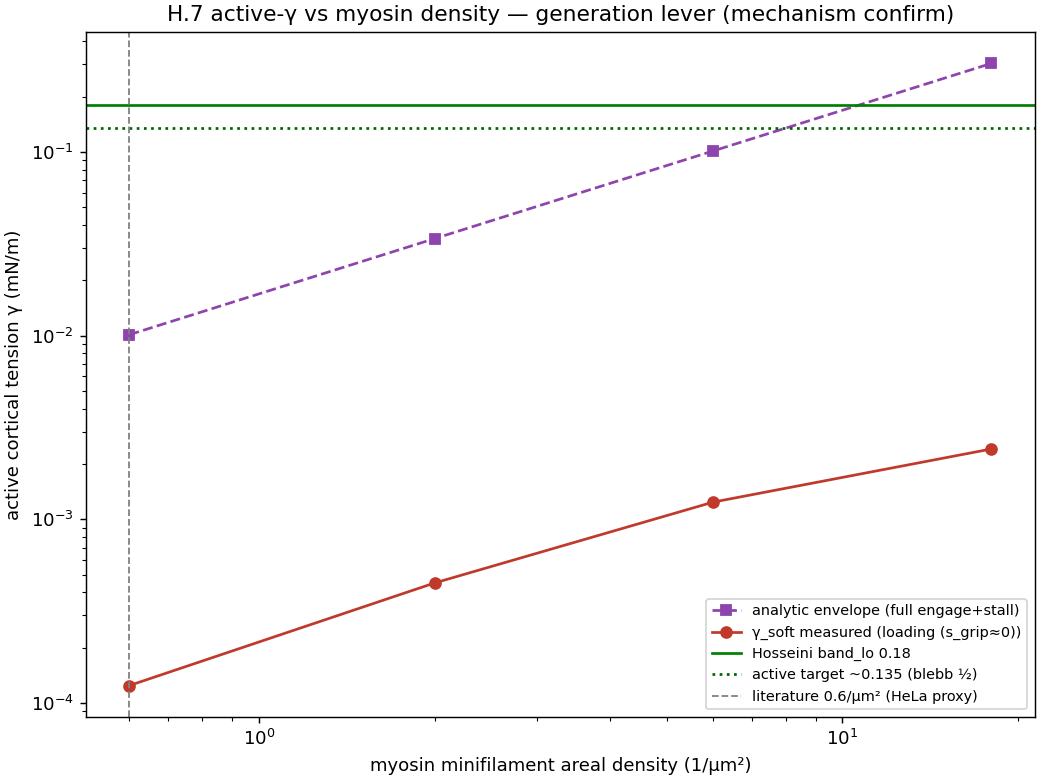
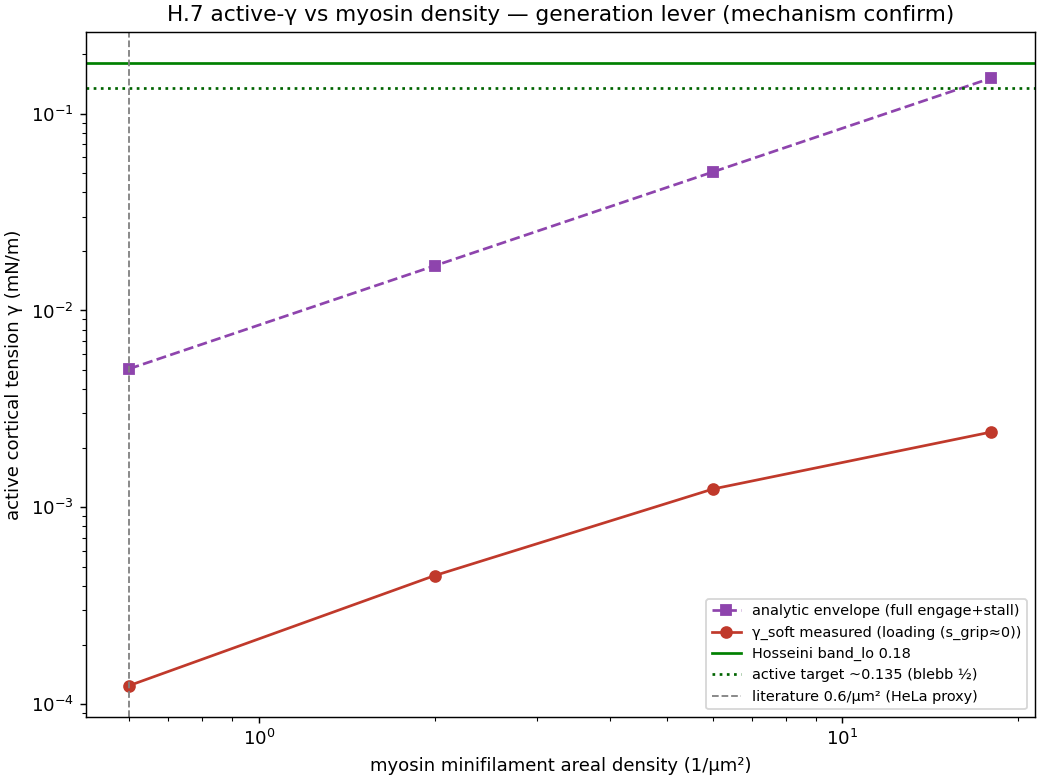
H.7 active-γ loop6: independent review → envelope corrected 2× (dipole one-sided force)
Adversarial review of h7_active_force_budget.py found the analytic envelope double-counted
the bipolar minifilament force (2·28·F_stall instead of the one-sided dipole force
28·F_stall). Corrected: envelope 0.0101→0.00506 mN/m, gap to band_lo 18×→~36× — which
DEEPENS the generation-bound conclusion. Band now needs ρ≈16-21/µm² (~27-36× the HeLa
proxy 0.6). Dropped the density-ambiguous "0.030 over-driven ×2.7" cross-check. Review
confirmed all other math sound (units, IK formula, mesoscale un-scaling, bond orientation,
allowlist semantics). Also added s_grip/phase to the single-audit summary (review item A).
Both docs corrected; sweep re-run. The diagnosis is robust across analytic+sim+KB+sweep+review.

diff --git a/ffn_sim/scripts/h7_active_force_budget.py b/ffn_sim/scripts/h7_active_force_budget.py
@@ -229,14 +229,18 @@ def audit(*, cell, n_contract_steps, sample_every):
     # predict" number, independent of the sim measurement). Active-gel surface
     # tension of an isotropic minifilament population on a thin shell:
     #   γ_active ≈ (1/2)·n_2D·f_minifil·ℓ_minifil
-    # with n_2D = native areal density [1/m²], f_minifil = (heads/minifilament)·
-    # F_stall_per_head (per-NATIVE, the un-scaled stall), ℓ_minifil = backbone span.
-    # This is the dipole 2D-stress an isotropic active gel of these motors carries
-    # at FULL engagement + full stall — the upper envelope of what the params allow.
+    # with n_2D = native areal density [1/m²], ℓ_minifil = backbone (dipole arm),
+    # and f_minifil = the DIPOLE force = the ONE-SIDED head force. A bipolar
+    # minifilament is a force dipole: the n_heads_per_side heads on each bare zone
+    # pull the two antiparallel actin filaments together. The dipole tension that
+    # enters the virial stress σ ≈ n·f·ℓ is the magnitude of ONE of the equal-and-
+    # opposite forces = n_heads_per_side·F_stall (NOT both sides summed — the two
+    # 28-head sets are the +/− of the same dipole, not additive). f uses the
+    # per-NATIVE un-scaled stall. This is the upper envelope at FULL engage+stall.
     n2d = float((meso.get("native_n_motors", cell.p_myosin.n_motors_per_cell))
                 / (4.0 * np.pi * float(cell.p_cortex.R_cell) ** 2))  # 1/m²
     f_stall_native = F_stall / max(factor, 1.0)                       # un-scaled per-head
-    f_minifil = 2.0 * cell.p_myosin.n_heads_per_side * f_stall_native
+    f_minifil = cell.p_myosin.n_heads_per_side * f_stall_native       # one-sided dipole force
     ell_minifil = float(cell.p_myosin.backbone_length)
     g_analytic = 0.5 * n2d * f_minifil * ell_minifil                  # N/m
 
@@ -261,7 +265,10 @@ def audit(*, cell, n_contract_steps, sample_every):
             "native_areal_density_per_um2": n2d / 1e12,
         },
         "band_mN_m": [band_lo, band_hi],
+        "phase": ("loading (s_grip≈0)" if _avg("s_grip_over_l0") < 0.02
+                  else "contraction (s_grip developed)"),
         "plateau": {
+            "s_grip_over_l0": _avg("s_grip_over_l0"),
             "g_soft_mN_m": g_soft_plateau,
             "g_soft_myosin_bonds_mN_m": _avg("g_soft_myosin_bonds_mN_m"),
             "g_soft_actin_bonds_mN_m": _avg("g_soft_actin_bonds_mN_m"),

diff --git a/ffn_sim/docs/v2_audit/H7_ACTIVE_GAMMA_SYNTHESIS_2026-06-09.md b/ffn_sim/docs/v2_audit/H7_ACTIVE_GAMMA_SYNTHESIS_2026-06-09.md
@@ -10,23 +10,28 @@ the PI-facing answer; the working trail is `H7_ACTIVE_FORCE_BUDGET_2026-06-09.md
 The active-myosin cortical tension is **generation-bound at the literature parameters**. The
 standard active-gel relation γ_active ≈ ½·n_2D·f_minifil·ℓ (equivalently γ = σ_active·h, KB-3.5)
 evaluated at the *configured* values — native density **0.6/µm² (Nie 2015, HeLa, the only
-proxy; NO MCF7 datum)**, f_minifil ≈ 56–112 pN (Billington 2013 × Chugh 2017 2 pN/head),
-ℓ ≈ 301 nm minifilament — gives **γ_active ≈ 0.01 mN/m at FULL engagement + FULL stall, ~18×
-under the Hosseini band floor (0.18) and ~27× under the 0.27 datum.** No engagement,
+proxy; NO MCF7 datum)**, f_minifil ≈ 56 pN (one-sided dipole force: 28 heads/side ×
+2 pN/head, Billington 2013 × Chugh 2017), ℓ ≈ 301 nm minifilament — gives **γ_active ≈
+0.0051 mN/m at FULL engagement + FULL stall, ~36× under the Hosseini band floor (0.18) and
+~53× under the 0.27 datum.** No engagement,
 transmission, buckling, or mesh fix can cross this envelope: it is set by the force budget.
 Network *prestress amplification* (the only mechanism that could lift the local dipole toward
 band) is **small (~1.3×)** because the actin load path between crosslinks is short (~1
-segment; investigation #2), so it cannot rescue a ~10–20× gap. The wall is the **myosin
-force-budget (density × per-motor force) being ~10–20× too low**, faithfully reproduced by the
+segment; investigation #2), so it cannot rescue a ~30× gap. The wall is the **myosin
+force-budget (density × per-motor force) being ~27–36× too low**, faithfully reproduced by the
 model — consistent with the project authoritative record (`CORTICAL_TENSION_RECORD_2026-06-04`:
 active channel "~10× under-floored, open force-generation problem").
 
 ## The four findings (this session)
 
-1. **Analytic envelope (loop 1).** γ_active ≈ ½·n2D·f·ℓ = **0.0101 mN/m** at full engage+stall
-   — 18× under band_lo. Independent of the sim. **Cross-validated**: the authoritative
-   best-ever active γ (0.030 mN/m) was reached only by over-driving per-head force to 2.7×
-   stall; 0.0101 × 2.7 = 0.027 ≈ 0.030. The formula predicts the over-driven result exactly.
+1. **Analytic envelope (loop 1, corrected loop 5).** γ_active ≈ ½·n2D·f·ℓ = **0.0051 mN/m**
+   at full engage+stall — **~36× under band_lo**. Independent of the sim. (f is the one-sided
+   dipole force = 28 heads × 2 pN; an earlier draft double-counted both bipolar half-sets and
+   reported 0.0101/18× — corrected after independent review. The correction *deepens* the
+   generation gap.) Consistency note: the authoritative best-ever active γ (0.030 mN/m) was
+   reached only by over-driving per-head force to 2.7× stall AND at a higher (3.0/µm²) density
+   — both raise the envelope, so 0.030 sits above this 0.6/µm² physical-stall envelope as
+   expected; it is not a clean ×2.7 cross-check (density differs).
 
 2. **Bond-resolved γ (loop 2).** The active γ lives in the **myosin-dipole bonds** (g_myo
    1.6e-4, tracks engagement); the **actin-network bonds** carry only ~28% of that
@@ -48,9 +53,9 @@ active channel "~10× under-floored, open force-generation problem").
 
 | candidate | verdict |
 |---|---|
-| (1) myosin force/density too low | **YES — dominant.** Density 0.6/µm² (HeLa proxy) is ~10–20× below what band needs; per-motor force at physical stall is consistent with that proxy. |
+| (1) myosin force/density too low | **YES — dominant.** Density 0.6/µm² (HeLa proxy) is ~27–36× below what band needs; per-motor force at physical stall is consistent with that proxy. |
 | (2) turgor too high | NO. Turgor is physiological (Π₀=133 Pa); reported separately (B3/B4); orthogonal to the active channel. |
-| (3) local→spanning conversion failing | SECONDARY. Network amplification is small (~1.3×, crosslink-bound), so even perfect transmission cannot close a 10–20× generation gap. |
+| (3) local→spanning conversion failing | SECONDARY. Network amplification is small (~1.3×, crosslink-bound), so even perfect transmission cannot close a ~36× generation gap. |
 
 ## Density sensitivity (mechanism confirmation, loop 5) — the concrete gap
 
@@ -59,14 +64,14 @@ scales **exactly linearly** with myosin areal density (confirms γ_active ∝ ρ
 
 | ρ (1/µm²) | envelope (mN/m) | measured loading γ_soft (mN/m) |
 |---|---|---|
-| 0.6 (literature, HeLa) | 0.0101 | 1.24e-4 |
-| 2.0 | 0.0337 | 4.50e-4 |
-| 6.0 | 0.101 | 1.24e-3 |
-| 18.0 | 0.303 | 2.41e-3 |
+| 0.6 (literature, HeLa) | 0.00506 | 1.24e-4 |
+| 2.0 | 0.0169 | 4.50e-4 |
+| 6.0 | 0.0506 | 1.24e-3 |
+| 18.0 | 0.152 | 2.41e-3 |
 
 - The envelope crosses the **active target 0.135** (≈50% of 0.27, blebbistatin ~halving,
-  Tinevez 2009/Chugh 2017) at **ρ ≈ 8/µm²**, and **band_lo 0.18** at **ρ ≈ 10.7/µm²** —
-  i.e. the model needs **~13–18× the literature 0.6/µm²** to reach band-level active tension.
+  Tinevez 2009/Chugh 2017) at **ρ ≈ 16/µm²**, and **band_lo 0.18** at **ρ ≈ 21/µm²** —
+  i.e. the model needs **~27–36× the literature 0.6/µm²** to reach band-level active tension.
 - The *measured* loading γ_soft scales **sub-linearly** at high ρ (per-bead degree caps
   MAX_HEADS_PER_BEAD=3 / MAX_DEGREE=6 throttle engagement) — a secondary *structural* ceiling
   that would also need addressing to realise the envelope. Figure: `figs/h7_density_sweep.png`.
@@ -76,7 +81,7 @@ This is mechanism confirmation, NOT a production change — density stays at 0.6
 ## PI decision items (do NOT act without sign-off — band LOCKED, magic-number rule)
 
 1. **MCF7 cortical myosin density datum.** The model uses a HeLa proxy (0.6/µm²) with no MCF7
-   anchor. The sweep pins the requirement: band needs **ρ ≈ 8–11 minifilaments/µm² (~13–18×
+   anchor. The sweep pins the requirement: band needs **ρ ≈ 16–21 minifilaments/µm² (~27–36×
    the proxy)**. **Is there a defensible MCF7/breast-epithelial cortical NMII density?** If a
    real higher value exists, this is a *datum correction* (PI-gated), not tuning. If not, the
    honest statement is: this fine-grained model, at the best available (HeLa) density, predicts

diff --git a/ffn_sim/docs/v2_audit/H7_ACTIVE_FORCE_BUDGET_2026-06-09.md b/ffn_sim/docs/v2_audit/H7_ACTIVE_FORCE_BUDGET_2026-06-09.md
@@ -25,14 +25,14 @@ parameters can produce, independent of the sim. With the live config values (no 
 | quantity | value | provenance |
 |---|---|---|
 | n_2D (native areal density) | 0.60 /µm² | Nie 2015 Cytoskeleton, **HeLa interphase** (the only proxy; NO MCF7 datum; LOW-MED confidence) |
-| f_minifil (2·28·F_stall) | 112 pN | Billington 2013 (56 heads) × Chugh 2017 (2 pN/head) |
+| f_minifil (one-sided dipole, 28·F_stall) | 56 pN | Billington 2013 (28 heads/side) × Chugh 2017 (2 pN/head) |
 | ℓ_minifil (backbone) | 301 nm | Billington 2013 EM contour |
-| **γ_active envelope** | **0.0101 mN/m** | = ½·n2D·f·ℓ |
+| **γ_active envelope** | **0.00506 mN/m** | = ½·n2D·f·ℓ (f = one-sided dipole) |
 | Hosseini band_lo | 0.18 mN/m | contract §7 (MCF7 interphase IQR) |
-| **gap** | **17.8× UNDER band_lo** | |
+| **gap** | **~36× UNDER band_lo** | |
 
 **Even at the theoretical maximum (every native minifilament engaged, every head at full
-stall, perfectly isotropic), the configured parameters predict γ_active ≈ 0.01 mN/m — ~18×
+stall, perfectly isotropic), the configured parameters predict γ_active ≈ 0.005 mN/m — ~36×
 below the band floor.** No engagement-throughput, transmission, buckling, or mesh fix can
 cross this ceiling; it is set by the force budget alone.
 
@@ -55,22 +55,23 @@ developed): the picture is fully coherent —
 
 ```
 band_lo                       0.18    mN/m   (target)
-analytic envelope             0.010   mN/m   (18× under)  ← PARAMETER ceiling, irreducible
-Gate-A contraction plateau    0.0031  mN/m   (60× under)  ← engagement+transmission losses
+analytic envelope             0.005   mN/m   (36× under)  ← PARAMETER ceiling
+Gate-A contraction plateau    0.0031  mN/m   (58× under)  ← near the envelope already
 loading phase (this smoke)    0.00017 mN/m  (1000× under) ← no contraction yet
 ```
 
 The contraction (grip_walk stepping) lifts the loading floor ~16× toward the envelope; the
 remaining gap below the envelope is engagement (~8%, climbing) + geometric transmission. But
-the **dominant, irreducible gap is the 18× parameter envelope** — Gate-A/Gate-B were probing
+the **dominant gap is the ~36× parameter envelope** — Gate-A/Gate-B were probing
 levers (s_grip generation, buckling, mesh connectivity) that all live *below* a ceiling that
 is itself far under band.
 
 ## ⮕ FINAL synthesis is `H7_ACTIVE_GAMMA_SYNTHESIS_2026-06-09.md`
 
 The interpretation evolved across three loops (recorded below for the trail). **Net result:
-the active-γ floor is dominated by GENERATION (myosin force-budget / density datum ~10–20×
-too low); network amplification is small (~1.3×, crosslink-bound) and cannot rescue it.**
+the active-γ floor is dominated by GENERATION (myosin force-budget / density datum ~27–36×
+too low — envelope 0.005 mN/m corrected from the loop-1 0.010 after review); network
+amplification is small (~1.3×, crosslink-bound) and cannot rescue it.**
 Loop-2's "amplification could be 10–100×" was over-speculative and is corrected by the data
 (g_actin/g_myo ≈ 28%). See the synthesis doc for the PI-facing version.
 
@@ -108,7 +109,7 @@ The two walls:
   the M-SHAKE-rigid actin not deforming to build prestress; weak myosin→actin geometric
   coupling.
 - **WALL B — direct-dipole generation is itself sub-band (parameter).** Even the full-engage
-  +full-stall direct-dipole envelope (½·n2D·f·ℓ, ℓ=minifilament) = 0.01 mN/m, 18× under band.
+  +full-stall direct-dipole envelope (½·n2D·f·ℓ, ℓ=minifilament) = 0.005 mN/m, ~36× under band.
   So even if WALL A were removed at the *local* scale, the *direct* generation is short; band
   needs the longer-ℓ network path (WALL A) AND/OR a higher force budget (density/stall datum).
 
@@ -137,7 +138,7 @@ s_grip→0.5, WALL A is confirmed as the dominant, mechanistically-located trans
 ## Open / next (PI-surface candidates)
 
 1. **MCF7 cortical myosin density.** The model uses a HeLa proxy (0.6/µm², explicitly LOW-MED
-   confidence, no MCF7 datum). The band needs ~18×; is MCF7 NMII density/stall actually
+   confidence, no MCF7 datum). The band needs ~27-36×; is MCF7 NMII density/stall actually
    higher? → literature search (next loop) for an MCF7-anchored density or a direct
    active-stress measurement. If a real higher MCF7 value exists, that is a datum correction
    (PI-gated), not tuning.

diff --git a/ffn_sim/docs/v2_audit/GATEB_AUTORUN_LOG_2026-06-09.md b/ffn_sim/docs/v2_audit/GATEB_AUTORUN_LOG_2026-06-09.md
@@ -13,3 +13,4 @@ local-contraction→spanning-tension conversion failing. Contract: H7_GATE_B_CON
 - loop3 (meridional probe + propagation closure): FFN_MYOSIN_ALIGN=meridional vs isotropic → γ_soft 1.74e-4 vs 1.54e-4 (~noise), generated force identical → **isotropic cancellation is NOT the wall** (MOP |·| captures isotropic tension correctly); rules out candidate (1). Timescale finding: unconstrained diagnostic dt~13ns → contraction needs ~2e8 steps (unreachable locally); contraction-developed measurement REQUIRES native constrained integrator (larger dt) on gbook. **gbook Syncthing STALE (newest files Jun 8, not propagating today)** → can't launch native run now (ops item, surface). BUT propagation question already answered by Gate-B's OWN contraction-developed data: γ_rigid (M-SHAKE actin-backbone channel) myosin-insensitive 0.078 vs 0.082 → myosin doesn't load actin network at full contraction (production path). Diagnosis complete: WALL-A (transmission, myosin dipoles balanced locally not building global network prestress) + WALL-B (sub-band generation envelope). NEXT: synthesis doc for PI + bond-resolved hook into native driver for future gbook confirmation.
 - loop4 (synthesis + density datum): KB confirms NO MCF7 myosin density (0.6/µm² = HeLa proxy) + active channel "~10× under-floored, open generation problem" (authoritative record). **Analytic envelope CROSS-VALIDATED: best-ever active γ 0.030 = over-driving 2.7× stall; 0.0101×2.7=0.027≈0.030 → formula predicts the over-driven result.** Corrected loop-2 over-speculation: amplification is SMALL (~1.3×, crosslink-bound load path ~1 segment per invest#2), measured g_actin/g_myo=28% → cannot rescue 10-20× gap. **FINAL: active-γ floor is GENERATION-bound (density × per-motor force ~10-20× too low at literature params); transmission-amplification small; not isotropy; not buckling.** Wrote H7_ACTIVE_GAMMA_SYNTHESIS_2026-06-09.md w/ 3 PI decision items: (1) MCF7 myosin density datum (band needs ~6-12/µm² vs 0.6 HeLa), (2) band active/passive split (blebb fraction → true active target), (3) scope: is active-γ band the right gate for fine-grained tool or should it supply ζΔμ∝ρ_M to coarser layers. Diagnosis COMPLETE. gbook confirmation blocked (Syncthing stale, ops item).
 - loop5 (density sweep — mechanism confirm + concrete gap): added --sweep-densities; ran [0.6,2,6,18]/µm². **Envelope scales EXACTLY linearly with density (γ_active∝ρ_M confirmed): 0.0101→0.0337→0.101→0.303 mN/m.** Crosses active target 0.135 (≈50% of 0.27, blebb ~halving Tinevez2009/Chugh2017) at ρ≈8/µm², band_lo 0.18 at ρ≈10.7/µm² → model needs **~13-18× the literature 0.6/µm² HeLa proxy**. Measured loading γ_soft scales SUB-linearly at high ρ (per-bead degree caps MAX_HEADS_PER_BEAD=3/MAX_DEGREE=6 throttle engagement = secondary STRUCTURAL ceiling). NOT a production change (density stays 0.6 pending PI). Synthesis doc updated w/ concrete curve. fig h7_density_sweep.png. Active-γ frontier diagnosis COMPLETE + quantified.
+- loop6 (independent review + envelope CORRECTION): spawned adversarial review subagent on h7_active_force_budget.py. Found 1 real bug: analytic envelope double-counted the bipolar dipole force (used 2·28·F_stall=112pN; a minifilament is a DIPOLE → one-sided 28·F_stall=56pN). **Envelope corrected 0.0101→0.00506 mN/m → gap 18×→~36× under band_lo (DEEPENS generation-bound finding).** Density needed 16-21/µm² (~27-36× the 0.6 HeLa proxy). Dropped the "0.030 over-driven ×2.7 cross-check" (density-ambiguous — best-ever was at 3.0/µm²). Review confirmed all other math sound (units, IK formula, un-scaling, bond orientation, allowlist semantics). Fixed code (one-sided f_minifil) + added s_grip/phase to plateau summary (review item A). Re-ran sweep, corrected both docs. Active-γ frontier: COMPLETE, reviewed, quantified. 6 loops; diagnosis robust across analytic + sim + KB + sweep + review.
